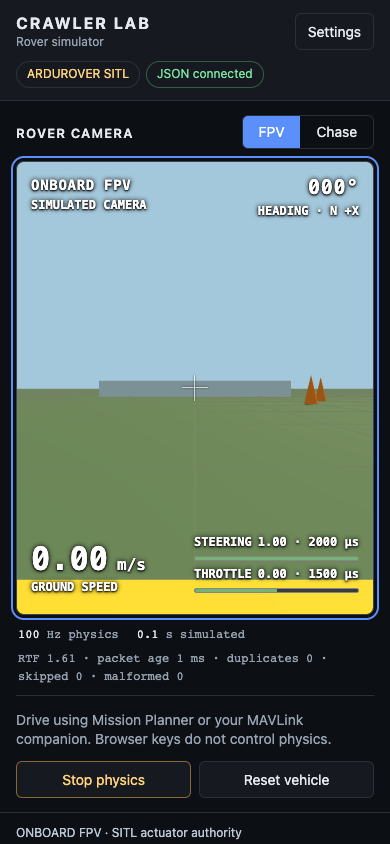
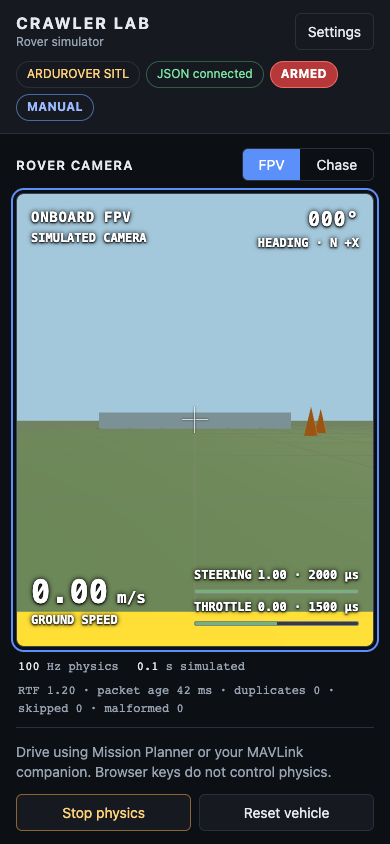
Show live MAVLink arm status and Rover mode in HUD

diff --git a/src/server.js b/src/server.js
@@ -10,15 +10,24 @@ import {Physics} from './physics.js';
 import {Session} from './session.js';
 import {decodeActuators} from './protocol.js';
 import {playground} from './world.js';
+import {HeartbeatTelemetry} from './mavlink.js';
 const args=process.argv.slice(2),configIndex=args.indexOf('--config');
 const config=loadConfig(configIndex>=0?args[configIndex+1]:undefined);
 const mode=args.includes('--standalone')?'standalone':'sitl';
 const physics=await Physics.create(config.vehicle,!args.includes('--flat'));
 const session=new Session(physics,config);
 const root=path.resolve(path.dirname(fileURLToPath(import.meta.url)),'..');
+const log=(event,data={})=>console.log(JSON.stringify({time:new Date().toISOString(),event,...data}));
+const telemetry=new HeartbeatTelemetry(config.mavlink??{});
+let telemetrySocket=null;
+if(mode==='sitl'&&config.mavlink){
+  telemetrySocket=dgram.createSocket('udp4');
+  telemetrySocket.on('message',bytes=>telemetry.receive(bytes,performance.now()));
+  telemetrySocket.on('error',e=>{log('mavlink-error',{message:e.message});telemetrySocket.close();telemetrySocket=null;});
+  telemetrySocket.bind(config.mavlink.port,config.mavlink.host,()=>log('mavlink-listening',{port:config.mavlink.port}));
+}
 let running=true,pending=null,due=performance.now(),malformed=0,lastLog=0,lastConnected=false,resetPending=false;
 let keyboard={steering:0,throttle:0,time:0,owner:null};
-const log=(event,data={})=>console.log(JSON.stringify({time:new Date().toISOString(),event,...data}));
 const server=http.createServer(async(req,res)=>{
   const url=new URL(req.url,'http://localhost');
   if(url.pathname==='/api/state'){res.setHeader('Content-Type','application/json');res.end(JSON.stringify(snapshot()));return;}
@@ -72,10 +81,10 @@ const tick=setInterval(()=>{const now=performance.now();if(mode==='standalone'){
 }previous=now;
 const connected=mode==='sitl'&&now-session.last<config.timeoutMs;if(connected!==lastConnected){log(connected?'sitl-connected':'sitl-timeout',{peer:session.peer});lastConnected=connected;}
 },5);
-function snapshot(){const state=physics.state();return {type:'state',mode,running,connected:mode==='standalone'||performance.now()-session.last<config.timeoutMs,resetPending,...state,simTime:mode==='sitl'?session.time:physics.time,rate:session.rate??100,ageMs:Number.isFinite(session.last)?Math.round(performance.now()-session.last):null,raw:session.raw??[],stats:{...session.stats,malformed,lagDropped},wallTime:performance.now()/1000};}
+function snapshot(){const state=physics.state();return {type:'state',mode,running,autopilot:mode==='sitl'?telemetry.snapshot(performance.now()):null,connected:mode==='standalone'||performance.now()-session.last<config.timeoutMs,resetPending,...state,simTime:mode==='sitl'?session.time:physics.time,rate:session.rate??100,ageMs:Number.isFinite(session.last)?Math.round(performance.now()-session.last):null,raw:session.raw??[],stats:{...session.stats,malformed,lagDropped},wallTime:performance.now()/1000};}
 const broadcast=setInterval(()=>{const msg=JSON.stringify(snapshot());for(const ws of wss.clients)if(ws.readyState===WebSocket.OPEN&&ws.bufferedAmount<65536)ws.send(msg);},50);
 wss.on('error',e=>{log('websocket-error',{message:e.message});process.exitCode=1;});
 server.on('error',e=>{log('http-error',{message:e.message});process.exitCode=1;shutdown();});
 server.listen(config.httpPort,config.httpHost,()=>log('ready',{url:`http://${config.httpHost}:${config.httpPort}`,mode}));
-function shutdown(){clearInterval(tick);clearInterval(broadcast);if(pending)clearTimeout(pending.timer);for(const ws of wss.clients)ws.terminate();wss.close();server.close();if(mode==='sitl')udp.close();physics.free();}
+function shutdown(){clearInterval(tick);clearInterval(broadcast);if(pending)clearTimeout(pending.timer);for(const ws of wss.clients)ws.terminate();wss.close();server.close();if(mode==='sitl')udp.close();telemetrySocket?.close();physics.free();}
 process.on('SIGINT',()=>{shutdown();});process.on('SIGTERM',()=>{shutdown();});

diff --git a/web/app.js b/web/app.js
@@ -9,7 +9,7 @@ export const fpvOutput={camera,canvas,renderer,scene};
 function box(size,color,parent=scene){const m=new T.Mesh(new T.BoxGeometry(...size),new T.MeshStandardMaterial({color,roughness:.85}));m.castShadow=true;m.receiveShadow=true;parent.add(m);return m;}
 let state=null,config=null,wheels=[],ws,mode='sitl',lastReceive=0,wasRunning=true;
 function notice(message){$('notice').textContent=message;$('notice').style.display='block';setTimeout(()=>$('notice').style.display='none',7000);}
-function setup(m){config=m.config;mode=m.mode;const c=config.vehicle;$('mode').textContent=mode==='sitl'?'ARDUROVER SITL':'STANDALONE · NO AUTOPILOT';$('help').textContent=mode==='sitl'?'Drive using Mission Planner or your MAVLink companion. Browser keys do not control physics.':'W/S or ↑/↓: forward / brake / reverse. A/D or ←/→: steer. Release to stop. Click the view to focus.';$('keyLegend').hidden=mode!=='standalone';
+function setup(m){config=m.config;mode=m.mode;const c=config.vehicle;$('mode').textContent=mode==='sitl'?'ARDUROVER SITL':'STANDALONE · NO AUTOPILOT';$('help').textContent=mode==='sitl'?'Drive using Mission Planner or your MAVLink companion. Browser keys do not control physics.':'W/S or ↑/↓: forward / brake / reverse. A/D or ←/→: steer. Release to stop. Click the view to focus.';$('keyLegend').hidden=mode!=='standalone';for(const id of ['armState','flightMode'])$(id).hidden=mode!=='sitl';
   while(rover.children.length)rover.remove(rover.children[0]);wheels=[];
   const body=box([c.length,c.height,c.width],0xe8bd24,rover);body.position.y=.03;
   const cabin=box([c.length*.43,c.height*.9,c.width*.85],0xf4d14a,rover);cabin.position.set(-.03,c.height*.9,0);
@@ -42,6 +42,10 @@ function render(){requestAnimationFrame(render);const width=viewport.clientWidth
     $('speed').textContent=s.speed.toFixed(2);$('heading').textContent=`${Math.round(s.heading).toString().padStart(3,'0')}°`;$('time').textContent=s.simTime.toFixed(1);$('rate').textContent=s.rate;
     for(const [id,value,index]of [['steer',s.inputs.steering,config.steering.channel-1],['throttle',s.inputs.throttle,config.throttle.channel-1]]){$(id).textContent=`${value.toFixed(2)}${s.raw[index]?` · ${s.raw[index]} µs`:''}`;$(id+'Meter').value=value;}
     const online=performance.now()-lastReceive<2000;const connectionText=!online?'Backend offline':mode==='standalone'?'Standalone physics active':s.connected?'JSON connected':s.resetPending?'Restart SITL to continue':'Waiting for SITL · physics held';if($('connection').textContent!==connectionText)$('connection').textContent=connectionText;$('connection').dataset.state=!online?'offline':s.connected||mode==='standalone'?'online':'waiting';
+    const autopilot=online&&s.autopilot?.connected?s.autopilot:null;
+    const armText=autopilot?autopilot.armed?'ARMED':'DISARMED':'ARM UNKNOWN',flightText=autopilot?.flightMode??'MODE UNKNOWN';
+    for(const [id,text] of [['armState',armText],['flightMode',flightText]])if($(id).textContent!==text)$(id).textContent=text;
+    $('armState').dataset.state=autopilot?autopilot.armed?'armed':'disarmed':'unknown';$('flightMode').dataset.state=autopilot?.flightMode?'known':'unknown';
     if(s.wallTime!==previousWall){ratio=(s.simTime-previousTime)/(s.wallTime-previousWall);previousTime=s.simTime;previousWall=s.wallTime;}
     $('run').textContent=s.running?'Stop physics':'Start physics';$('diagnostics').textContent=`RTF ${ratio.toFixed(2)} · packet age ${s.ageMs??'—'} ms · duplicates ${s.stats.duplicates} · skipped ${s.stats.skipped} · malformed ${s.stats.malformed}`;$('status').textContent=s.running?`${$('camera').value==='fpv'?'ONBOARD FPV':'CHASE'} · ${mode==='sitl'?'SITL actuator authority':'keyboard test mode'}`:'PHYSICS STOPPED · sensor time continues in SITL';
   }renderer.render(scene,$('camera').value==='fpv'?camera:chase);

diff --git a/src/mavlink.js b/src/mavlink.js
@@ -1,0 +1,25 @@
+// Receive-only MAVLink HEARTBEAT decoder. No commands or GCS heartbeats are sent.
+// Framing and X.25 CRC: https://mavlink.io/en/guide/serialization.html
+const modes={0:'MANUAL',1:'ACRO',3:'STEERING',4:'HOLD',5:'LOITER',6:'FOLLOW',7:'SIMPLE',8:'DOCK',9:'CIRCLE',10:'AUTO',11:'RTL',12:'SMART RTL',15:'GUIDED',16:'INITIALISING'};
+function crc(bytes){let value=0xffff;for(const byte of bytes){let t=byte^(value&255);t^=(t<<4)&255;value=((value>>8)^(t<<8)^(t<<3)^(t>>4))&65535;}return value;}
+export class HeartbeatTelemetry {
+ constructor({systemId=1,timeoutMs=3000}={}){this.systemId=systemId;this.timeoutMs=timeoutMs;this.last=null;this.heartbeat=null;}
+ receive(bytes,now){
+  for(let offset=0;offset<bytes.length;){
+   const v2=bytes[offset]===0xfd;if(!v2&&bytes[offset]!==0xfe){offset++;continue;}
+   const header=v2?10:6;if(offset+header>bytes.length)break;
+   const length=bytes[offset+1],flags=v2?bytes[offset+2]:0,size=header+length+2+((flags&1)?13:0);
+   if(offset+size>bytes.length){offset++;continue;}
+   const frame=bytes.subarray(offset,offset+size);offset+=size;
+   const id=v2?frame.readUIntLE(7,3):frame[5],system=frame[v2?5:3],component=frame[v2?6:4];
+   // Signed messages are deliberately ignored; this local simulation feed is unsigned.
+   if(flags||id!==0||length!==9||system!==this.systemId||component!==1)continue;
+   if(crc(Buffer.concat([frame.subarray(1,header+length),Buffer.from([50])]))!==frame.readUInt16LE(header+length))continue;
+   const payload=frame.subarray(header,header+length);
+   if(payload[4]!==10||payload[5]!==3||payload[8]!==3)continue; // ArduPilot ground rover only
+   const customMode=payload.readUInt32LE(0);
+   this.heartbeat={armed:!!(payload[6]&128),flightMode:payload[6]&1?(modes[customMode]??`MODE ${customMode}`):null,customMode};this.last=now;
+  }
+ }
+ snapshot(now){const ageMs=this.last===null?null:Math.max(0,Math.round(now-this.last)),connected=ageMs!==null&&ageMs<=this.timeoutMs;return {connected,armed:connected?this.heartbeat.armed:null,flightMode:connected?this.heartbeat.flightMode:null,customMode:connected?this.heartbeat.customMode:null,ageMs};}
+}

diff --git a/test/mavlink.test.js b/test/mavlink.test.js
@@ -1,0 +1,20 @@
+import {test} from 'node:test';
+import assert from 'node:assert/strict';
+import {HeartbeatTelemetry} from '../src/mavlink.js';
+// Independent wire fixtures generated by pymavlink's ardupilotmega dialect.
+const manual=Buffer.from('fe0900010100000000000a038104035d04','hex');
+const guided=Buffer.from('fd0900000001010000000f0000000a030104037547','hex');
+test('heartbeat decodes v1/v2 arm and Rover modes, invalid data cannot refresh freshness',()=>{
+ const t=new HeartbeatTelemetry({systemId:1,timeoutMs:3000});
+ assert.equal(t.snapshot(0).connected,false);
+ t.receive(manual,100);assert.deepEqual(t.snapshot(100),{connected:true,armed:true,flightMode:'MANUAL',customMode:0,ageMs:0});
+ t.receive(guided,200);assert.equal(t.snapshot(200).armed,false);assert.equal(t.snapshot(200).flightMode,'GUIDED');
+ const corrupt=Buffer.from(manual);corrupt[8]^=1;t.receive(corrupt,3000);
+ t.receive(manual.subarray(0,10),3000);
+ assert.equal(t.snapshot(3201).connected,false);assert.equal(t.snapshot(3201).armed,null);
+ assert.equal(t.snapshot(3201).flightMode,null);
+ t.receive(Buffer.concat([Buffer.from([1,2]),manual,guided]),4000);assert.equal(t.snapshot(4000).flightMode,'GUIDED');
+ t.receive(Buffer.from('fd090000000101000000630000000a03810403604e','hex'),4100);
+ assert.equal(t.snapshot(4100).flightMode,'MODE 99');
+ const other=new HeartbeatTelemetry({systemId:2});other.receive(manual,100);assert.equal(other.snapshot(100).connected,false);
+});

diff --git a/test/backend.test.js b/test/backend.test.js
@@ -6,7 +6,7 @@ import {setTimeout as delay} from 'node:timers/promises';
 import {once} from 'node:events';import dgram from 'node:dgram';
 import {WebSocket} from 'ws';
 async function launch(mode){
- const dir=await fs.mkdtemp(path.join(os.tmpdir(),'rover-test-'));const config=JSON.parse(await fs.readFile(new URL('../config/default.json',import.meta.url)));config.httpPort=22000+Math.floor(Math.random()*10000);config.udpPort=32000+Math.floor(Math.random()*10000);config.timeoutMs=150;await fs.writeFile(path.join(dir,'config.json'),JSON.stringify(config));
+ const dir=await fs.mkdtemp(path.join(os.tmpdir(),'rover-test-'));const config=JSON.parse(await fs.readFile(new URL('../config/default.json',import.meta.url)));config.httpPort=22000+Math.floor(Math.random()*10000);config.udpPort=32000+Math.floor(Math.random()*10000);config.timeoutMs=150;config.mavlink=null;await fs.writeFile(path.join(dir,'config.json'),JSON.stringify(config));
  const proc=spawn(process.execPath,['src/server.js','--flat','--config',path.join(dir,'config.json'),...(mode==='standalone'?['--standalone']:[])],{cwd:new URL('..',import.meta.url),stdio:['ignore','pipe','pipe']});let logs='';proc.stdout.on('data',v=>logs+=v);proc.stderr.on('data',v=>logs+=v);
  const url=`http://127.0.0.1:${config.httpPort}`;
  const state=async()=>{const r=await fetch(url+'/api/state');return r.json();};

diff --git a/web/index.html b/web/index.html
@@ -10,7 +10,7 @@
 <body>
 <header class="top">
   <div class="identity"><strong>CRAWLER LAB</strong><span class="muted">Rover simulator</span></div>
-  <div class="connection-state"><span id="mode" class="pill">CONNECTING</span><span id="connection" class="pill" role="status">Backend offline</span></div>
+  <div class="connection-state"><span id="mode" class="pill">CONNECTING</span><span id="connection" class="pill" role="status">Backend offline</span><span id="armState" class="pill vehicle-state" role="status" hidden>ARM UNKNOWN</span><span id="flightMode" class="pill vehicle-state" role="status" hidden>MODE UNKNOWN</span></div>
   <button id="settings" aria-haspopup="dialog">Settings</button>
 </header>
 <main class="cockpit">

diff --git a/src/config.js b/src/config.js
@@ -6,5 +6,8 @@ export function loadConfig(path=new URL('../config/default.json',import.meta.url
   for(const [k,v]of Object.entries(c.vehicle))if(!Number.isFinite(v)||v<=0)throw Error(`invalid vehicle ${k}`);
   for(const k of ['httpPort','udpPort'])if(!Number.isInteger(c[k])||c[k]<1||c[k]>65535)throw Error(`invalid ${k}`);
   if(!(c.timeoutMs>=100&&c.timeoutMs<=30000))throw Error('invalid timeout');
+  if(c.mavlink){const m=c.mavlink;
+    if(typeof m.host!=='string'||!m.host||!Number.isInteger(m.port)||m.port<1||m.port>65535||!Number.isInteger(m.systemId)||m.systemId<1||m.systemId>255||!Number.isFinite(m.timeoutMs)||m.timeoutMs<100||m.timeoutMs>30000)throw Error('invalid mavlink configuration');
+  }
   return c;
 }

diff --git a/web/style.css b/web/style.css
@@ -121,3 +121,9 @@ footer .muted{display:none}
 .actions button{flex:1}
 .drive-help p{font-size:.875rem}
 }
+
+.vehicle-state{font-weight:700;letter-spacing:.03em}
+#armState[data-state=armed]{color:#fff;background:#b63838;border-color:#ed6969}
+#armState[data-state=disarmed]{color:var(--ok);border-color:#315c45}
+#flightMode[data-state=known]{color:#9bbaff;border-color:#4b689e}
+.vehicle-state[data-state=unknown]{color:var(--muted)}

diff --git a/scripts/integration.py b/scripts/integration.py
@@ -19,17 +19,20 @@ def wait_for(fn,timeout=20):
     raise TimeoutError(f'condition after {timeout}s')
 
 with tempfile.TemporaryDirectory(prefix='rover-sitl-') as run:
-    run=pathlib.Path(run);c=json.loads((ROOT/'config/default.json').read_text());c.update(httpPort=8091,udpPort=9003)
+    run=pathlib.Path(run);c=json.loads((ROOT/'config/default.json').read_text());c.update(httpPort=8091,udpPort=9003);c["mavlink"]["port"]=14562
     (run/'config.json').write_text(json.dumps(c));logs=[];procs=[];results={}
     try:
         for name,cmd,cwd in [
           ('backend',['node',str(ROOT/'src/server.js'),'--flat','--config',str(run/'config.json')],ROOT),
-          ('sitl',[str(pathlib.Path(args.sitl).resolve()),'--model','JSON:127.0.0.1','--sim-port-out','9003','--rate','100','--speedup','1','--home','50.4501,30.5234,100,0','--defaults',str(ROOT/'config/rover.parm'),'--serial0','tcp:5770','--serial1','tcp:5772','--wipe'],run)]:
+          ('sitl',[str(pathlib.Path(args.sitl).resolve()),'--model','JSON:127.0.0.1','--sim-port-out','9003','--rate','100','--speedup','1','--home','50.4501,30.5234,100,0','--defaults',str(ROOT/'config/rover.parm'),'--serial0','tcp:5770','--serial1','tcp:5772','--serial2','udpclient:127.0.0.1:14562','--wipe'],run)]:
             log=open(run/f'{name}.log','w+');logs.append((name,log));procs.append(subprocess.Popen(cmd,cwd=cwd,stdout=log,stderr=subprocess.STDOUT))
         wait_for(lambda:state()['connected'],40)
         link=mavutil.mavlink_connection('tcp:127.0.0.1:5770',source_system=255)
         assert link.wait_heartbeat(timeout=20),'heartbeat missing'
         results['heartbeat']=True
+        wait_for(lambda:state()['autopilot']['connected'],10)
+        assert state()['autopilot']['armed'] is False
+        results['hud_disarmed_heartbeat']=True
         link.mav.request_data_stream_send(1,1,mavutil.mavlink.MAV_DATA_STREAM_ALL,10,1)
         second=mavutil.mavlink_connection('tcp:127.0.0.1:5772',source_system=254)
         assert second.wait_heartbeat(timeout=15),'second simultaneous endpoint missing'
@@ -64,6 +67,8 @@ with tempfile.TemporaryDirectory(prefix='rover-sitl-') as run:
         hb=link.recv_match(type='HEARTBEAT',blocking=True,timeout=3)
         if not hb or not hb.base_mode&mavutil.mavlink.MAV_MODE_FLAG_SAFETY_ARMED:
             raise AssertionError('normal arming failed; inspect prearm messages')
+        wait_for(lambda:state()['autopilot']['armed'] and state()['autopilot']['flightMode']=='MANUAL',5)
+        results['hud_armed_manual']=True
         origin=state()['position'];pump(3,(1500,1700));forward=state();results['forward_metres']=forward['position']['x']-origin['x'];assert results['forward_metres']>.4
         pump(2,(1500,1500));start=state()['position'];pump(3,(1500,1300));reverse=state();results['reverse_metres']=reverse['position']['x']-start['x'];assert results['reverse_metres']<-.3
         pump(2,(1500,1500));heading=state()['heading'];pump(2,(1750,1650));turned=state();results['right_turn_deg']=(turned['heading']-heading+180)%360-180;assert results['right_turn_deg']>5
@@ -93,6 +98,8 @@ with tempfile.TemporaryDirectory(prefix='rover-sitl-') as run:
             msg=link.recv_match(blocking=True,timeout=.2)
             if msg and msg.get_type()=='STATUSTEXT':print(msg.text,flush=True)
             if msg and msg.get_type()=='MISSION_ITEM_REACHED' and msg.seq==1:reached=True;break
+        wait_for(lambda:state()['autopilot']['flightMode']=='AUTO',5)
+        results['hud_auto_mode']=True
         results['mission_item_reached']=reached;results['mission_final_state']=state()['position'];assert reached,'AUTO waypoint not reached'
         # Restart the actual firmware after timeout; backend must reset its world
         # and reconnect without any browser, not just recognise synthetic packets.

diff --git a/README.md b/README.md
@@ -106,7 +106,8 @@ command is:
 /path/to/ardupilot/build/sitl/bin/ardurover \
   --model JSON:127.0.0.1 --sim-port-out 9002 --rate 100 --speedup 1 \
   --home 50.4501,30.5234,100,0 --defaults /absolute/path/rover-sim/config/rover.parm \
-  --serial0 tcp:5760 --serial1 tcp:5762 --wipe
+  --serial0 tcp:5760 --serial1 tcp:5762 \
+  --serial2 udpclient:127.0.0.1:14560 --wipe
 ```
 
 For an already configured official source tree, an alternative is:
@@ -115,7 +116,7 @@ For an already configured official source tree, an alternative is:
 /path/to/ardupilot/Tools/autotest/sim_vehicle.py -v Rover -f rover \
   --model JSON:127.0.0.1 --no-mavproxy \
   --add-param-file=/absolute/path/rover-sim/config/rover.parm \
-  -A '--sim-port-out 9002 --rate 100 --serial0 tcp:5760 --serial1 tcp:5762' -w
+  -A '--sim-port-out 9002 --rate 100 --serial0 tcp:5760 --serial1 tcp:5762 --serial2 udpclient:127.0.0.1:14560' -w
 ```
 
 `-v Rover` matches the current source vehicle directory. Older trees may use
@@ -159,6 +160,7 @@ or set their protocols to MAVLink2. Do not connect two clients to one UART port.
 | Physics | Backend UDP 127.0.0.1:9002 | SITL sends binary actuators; backend replies to sender's ephemeral UDP port |
 | Mission Planner MAVLink | SITL TCP 0.0.0.0:5760 | Windows MP connects to Mac |
 | Companion MAVLink | SITL TCP 0.0.0.0:5762 | Companion connects to Mac |
+| HUD arm/mode telemetry | Backend UDP 127.0.0.1:14560 | SITL SERIAL2 sends MAVLink heartbeats; receive only |
 | Browser/HUD | Backend HTTP + WebSocket 127.0.0.1:8090 | Browser connects to backend |
 
 To use a companion that requires UDP endpoints, run MAVProxy against one SITL UART
@@ -223,7 +225,9 @@ double reversal. Configuration changes require backend and SITL restart.
 
 - **HUD:** the dark cockpit shows backend/JSON connection state, speed, heading,
   steering/throttle (including PWM in SITL), simulation time and packet diagnostics.
-  It does not receive MAVLink arming or mode telemetry. Use **Settings** to open
+  Header badges show **ARMED / DISARMED** and the Rover mode from MAVLink
+  heartbeats. They show **UNKNOWN** after 3 seconds without telemetry and are
+  hidden in standalone mode. Use **Settings** to open
   the camera drawer; close with Escape or the close button. Standalone driving
   requires focus on the camera viewport and releases when focus leaves it or
   settings open. In SITL, drive through Mission Planner or a MAVLink companion.
@@ -243,6 +247,27 @@ double reversal. Configuration changes require backend and SITL restart.
 - In SITL mode browser keys never directly affect physics. Your existing browser
   keyboard companion must send MAVLink RC overrides/manual commands to ArduRover.
   The resulting SERVO outputs alone move this backend.
+
+### HUD arm status and mode telemetry
+
+The launchers send a dedicated MAVLink feed from SERIAL2 to backend UDP **14560**.
+Mission Planner TCP 5760 and companion TCP 5762 remain available. The HUD reads
+heartbeats only and sends no arming, mode or control commands.
+
+After updating, restart both the backend and SITL, then refresh the browser.
+Omit `-Wipe` / `--wipe` to retain saved parameters, including `RC5_OPTION`.
+If JSON is connected but the arm/mode badges remain UNKNOWN, check
+`SERIAL2_PROTOCOL = 2` in Mission Planner, write parameters and restart SITL.
+This is already the default for an unchanged SERIAL2 configuration.
+
+`config/default.json` contains `mavlink.host` (bind address), `port`, `systemId`
+(default 1) and `timeoutMs` (3000). Old custom configs without `mavlink` keep the
+feed disabled; copy that block to enable it, or use `null` to disable it.
+Match a changed port with PowerShell `-TelemetryPort` or shell `TELEMETRY_PORT`.
+For SITL and backend on different machines, match the destination to the backend
+host, bind the telemetry listener to an accessible interface and allow its UDP
+port. This telemetry port is separate from the physics JSON UDP port.
+The local receiver supports unsigned MAVLink 1/2 ArduPilot ground-rover heartbeats.
 
 ### Import selected real-rover tuning
 
@@ -325,11 +350,11 @@ npm run test:browser
   --sitl .tools/ardupilot/build/sitl/bin/ardurover
 ```
 
-Integration reserves HTTP 8091, UDP 9003, TCP 5770/5772 and uses a temporary EEPROM
+Integration reserves HTTP 8091, UDP 9003/14562, TCP 5770/5772 and uses a temporary EEPROM
 and log directory. It checks stationary IMU, two MAVLink clients, EKF readiness,
 normal arm, manual forward/reverse/right steering, mission upload and waypoint
 reach. Artifacts go to `docs/integration-result.json` and `docs/integration-*.log`.
-Browser smoke reserves HTTP 8092/8093 and UDP 9004 and checks real Chrome WebGL rendering, keys, pause
+Browser smoke reserves HTTP 8092/8093 and UDP 9004/14561 and checks real Chrome WebGL rendering, keys, pause
 and reset, producing screenshots. No tests contact a real flight controller.
 
 ## Troubleshooting

diff --git a/docs/validation.md b/docs/validation.md
@@ -11,17 +11,17 @@
   ready; normal arming succeeded without disabling checks or truth-AHRS mode.
 - Separate simultaneous SERIAL0/1 MAVLink TCP clients both received heartbeats.
 - Manual RC overrides into ArduRover caused SERVO2/4 outputs and real physics:
-  forward 2.53 m, reverse -2.53 m, right heading change +35.48° (about +37° in the preceding run).
+  forward 2.53 m, reverse -2.51 m, right heading change +35.48° (about +37° in the preceding run).
 - Mission protocol upload accepted and AUTO `MISSION_ITEM_REACHED` for waypoint 1.
 - Real SITL process restart after timeout reconnected and reset physical pose.
 - Installation/build script rerun successfully from the project directory using its
   pinned Python dependencies; native ARM64 binary is available under `.tools`.
 - Stationary acceleration [0,0,-9.80665] m/s². Stationary velocity consistency
   and transformed attitude signs checked with tests.
-- 16 focused automated tests: 16/32 channel packet layouts, bad lengths/magic/rate,
+- 17 focused automated tests: 16/32 channel packet layouts, bad lengths/magic/rate,
   PWM calibration/clipping/reversal, NED/body/quaternion signs, duplicate/gap/wrap/
   restart handling, pause timestamps, ground settling, forward/reverse/turn,
-  collision barrier, ramp contact/tilt, neutral slowing, parameter import protection, actual UDP/
+  collision barrier, ramp contact/tilt, neutral slowing, parameter import protection, MAVLink heartbeat CRC/source/freshness decoding, actual UDP/
   HTTP/WebSocket backend timeout/reconnect and standalone multi-client ownership.
 - Chrome headless using the installed Chrome channel: actual WebGL rendering,
   screenshots of FPV/chase and 390px standalone/SITL layouts, viewport sizing,
@@ -29,14 +29,16 @@
   FOV, camera selector synchronization, held-key release and stable connection
   live-region announcements checked. A real UDP actuator fixture verifies
   JSON state/PWM rendering and that browser keys retain SITL actuator authority.
-  This fixture is a protocol check, not another full ArduRover integration run.
+  The full native ArduRover integration was also rerun: receive-only SERIAL2
+  heartbeats reported disarmed, ARMED/MANUAL and AUTO in the backend while both
+  MAVLink TCP clients, manual driving, mission completion and restart passed.
 - JavaScript syntax checks, POSIX launcher syntax, Python compile check.
 - npm production dependency audit: zero known vulnerabilities at validation time.
 - Read-only review found a neutral-input ownership bug across standalone tabs;
   fixed with a reproducing backend WebSocket regression test.
 
 See `integration-result.json`, `integration-sitl.log`, `integration-backend.log`,
-`standalone.png`, `chase.png`, `mobile.png` and `sitl-mobile.png`. Test scripts regenerate these artifacts.
+`standalone.png`, `chase.png`, `mobile.png`, `sitl-mobile.png` and `sitl.png`. Test scripts regenerate these artifacts.
 
 ## Limits and remaining manual checks
 

diff --git a/docs/implementation.md b/docs/implementation.md
@@ -41,5 +41,19 @@ Implementation and validation sequence:
 4. Run `npm test` and `node scripts/browser-smoke.mjs`; inspect FPV, chase and
    narrow screenshots, then review the diff and document the controls.
 
-The header reports backend/JSON state only. No MAVLink arming, flight mode or
-WebRTC statistics are inferred. Camera settings remain session-local.
+Camera settings remain session-local. WebRTC statistics are not inferred.
+
+## HUD MAVLink telemetry (2026-11-20)
+
+Add arm state and flight mode badges beside JSON connection in the header.
+Read SERIAL2's independent UDP heartbeat feed on 14560, validate MAVLink v1/v2
+framing, HEARTBEAT CRC and source system/component/type, then expose an
+`autopilot` snapshot over the existing HTTP/WebSocket path. Keep decoding in
+`src/mavlink.js`, transport in `src/server.js` and presentation in `web/app.js`.
+No MAVLink commands are sent and the two existing TCP endpoints stay available.
+
+Missing/stale telemetry clears both badges to UNKNOWN after three seconds;
+standalone hides them. Unrecognized custom modes retain their numeric value.
+Both launchers add SERIAL2's UDP destination; its protocol defaults to MAVLink2.
+Tests use independent pymavlink wire fixtures, malformed and stale data, Chrome
+badge transitions and the real SITL integration's disarmed/armed/mode changes.
